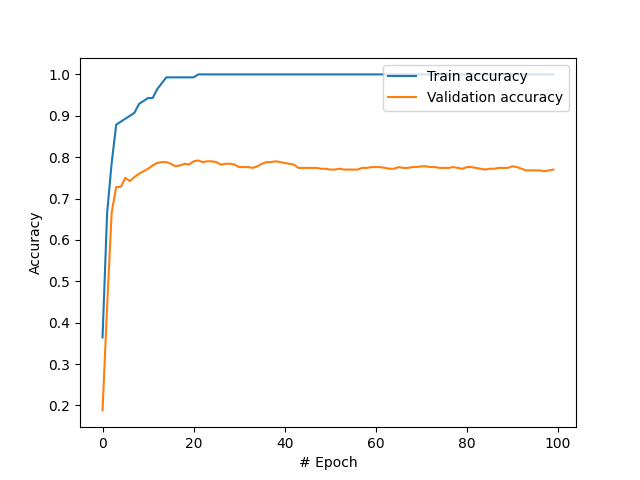
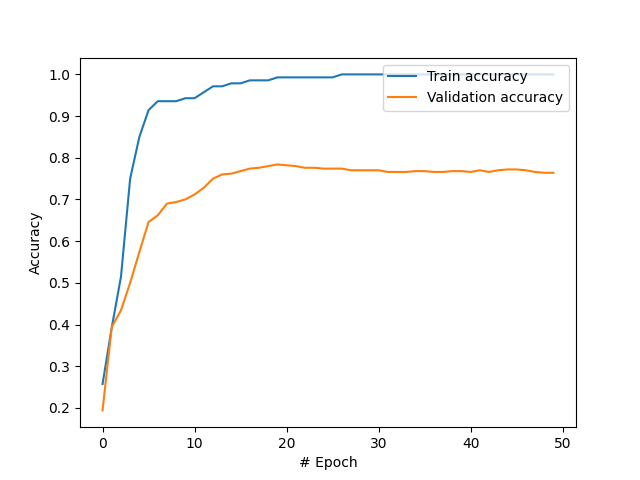
cuda config

diff --git a/gcnn.py b/gcnn.py
@@ -9,6 +9,7 @@ import matplotlib.pyplot as plt
 import numpy as np
 from tqdm import tqdm
 import sys
+import time
 
 
 class GrahpConv(nn.Module):
@@ -39,12 +40,16 @@ def train(model, optimizer, data, A, n_epochs, plot=False, device=None):
     train_losses, val_losses = [], []
     x = data.x.to(device)
     targets = data.y.to(device)
+
+    train_mask = data.train_mask.to(device)
+    start = time.time()
+
     for epoch in range(n_epochs):
         model.train()
         optimizer.zero_grad()
 
         out = model(x, A)
-        loss = F.cross_entropy(out[data.train_mask], targets[data.train_mask])
+        loss = F.cross_entropy(out[train_mask], targets[train_mask])
         loss.backward()
         optimizer.step()
 
@@ -57,6 +62,8 @@ def train(model, optimizer, data, A, n_epochs, plot=False, device=None):
         val_losses.append(val_loss)
 
         print(f'Epoch: {epoch}, Loss: {loss.item():.3f}, Train acc: {train_acc:.3f}, Val acc: {val_acc:.3f}', )
+
+    print(f'Training done in {(time.time() - start):.1f}s')
 
     if plot:
         plt.plot(train_losses, label="Train losses")
@@ -79,7 +86,7 @@ def train(model, optimizer, data, A, n_epochs, plot=False, device=None):
 def create_adjacency_matrix(num_nodes, edge_index, add_self_loops=True, normalize=True, device=None):
     """Creates adjacency matrix from pytorch_geometric edge_index"""
     adj = torch.zeros((num_nodes, num_nodes))
-    edges = torch.stack((data.edge_index[0], data.edge_index[1]), 1)
+    edges = torch.stack((edge_index[0], edge_index[1]), 1)
     for (source_i, target_i) in edges:
         adj[source_i, target_i] = 1
 
@@ -93,7 +100,7 @@ def create_adjacency_matrix(num_nodes, edge_index, add_self_loops=True, normaliz
     return adj.to(device)
 
 
-def get_acc_and_loss(data, model, A, type='train'):
+def get_acc_and_loss(data, model, A, type='train', device=None):
     model.eval()
 
     correct = 0
@@ -102,13 +109,16 @@ def get_acc_and_loss(data, model, A, type='train'):
     pred = out.max(dim=1)[1]
 
     if type == 'train':
-        correct += pred[data.train_mask].eq(data.y[data.train_mask]).sum().item()
+        train_mask = data.train_mask.to(device)
+        correct += pred[train_mask].eq(data.y[train_mask]).sum().item()
         acc = correct / (len(data.y[data.train_mask]))
     elif type == 'val':
-        correct += pred[data.val_mask].eq(data.y[data.val_mask]).sum().item()
+        val_mask = data.val_mask.to(device)
+        correct += pred[val_mask].eq(data.y[val_mask]).sum().item()
         acc = correct / (len(data.y[data.val_mask]))
     else:
-        correct += pred[data.test_mask].eq(data.y[data.test_mask]).sum().item()
+        test_mask = data.test_mask.to(device)
+        correct += pred[test_mask].eq(data.y[test_mask]).sum().item()
         acc = correct / (len(data.y[data.test_mask]))
 
     return acc, loss
@@ -177,18 +187,21 @@ if __name__ == '__main__':
     num_nodes = data.num_nodes
     num_features = dataset.num_node_features
 
-    x = data.x  # Node features
-    y = data.y  # Node classes
+    x = data.x.to(device)  # Node features
+    y = data.y.to(device)  # Node classes
     num_targets = len(torch.unique(y))
-    print(num_targets)
+    print(f'Num classes: {num_targets}')
+
+    # data.train_mask = data.train_mask.to(device)
 
     A = create_adjacency_matrix(num_nodes, data.edge_index)
 
     model = GCNN(num_features, hid_dim=16, out_dim=num_targets)
-    model = model.to(device)
     optimizer = torch.optim.Adam(model.parameters(), lr=0.01, weight_decay=5e-4)
+    if device == 'cuda':
+        model.cuda()
 
-    train(model, optimizer, data, A, n_epochs=100, plot=True)
+    train(model, optimizer, data, A, n_epochs=50, plot=True, device=device)
 
     test_acc, _ = get_acc_and_loss(data, model, A, type='test')
     print(f'---- Accuracy on test set: {test_acc}')
